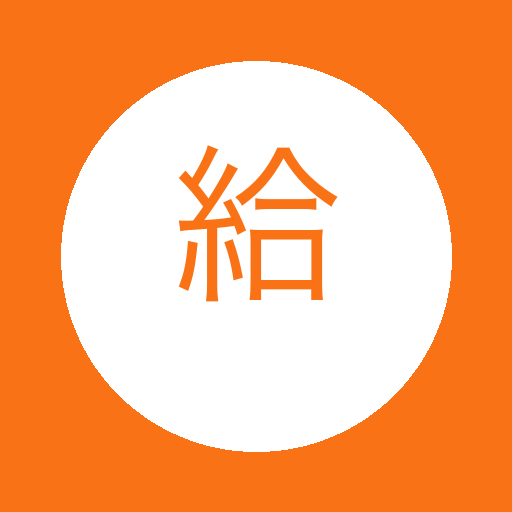
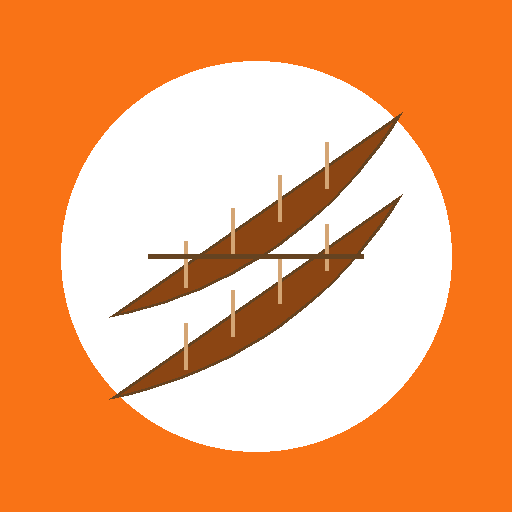
feat: PWAアイコンをパンのイラスト（2本のバゲット）に変更

Changed region(s): [[0.2188, 0.2188, 0.7812, 0.7812]]

diff --git a/scripts/create-pwa-icons.py b/scripts/create-pwa-icons.py
@@ -1,14 +1,16 @@
 #!/usr/bin/env python3
 """
 PWAアイコン生成スクリプト
+パンのイラストアイコンを生成します
 192x192と512x512のアイコンを生成します
 """
 
 from PIL import Image, ImageDraw, ImageFont
 import os
+import math
 
-def create_icon(size, output_path):
-    """指定サイズのアイコンを生成"""
+def create_bread_icon(size, output_path):
+    """パンのイラストアイコンを生成（2本のバゲット）"""
     # 新しい画像を作成（オレンジのグラデーション背景）
     img = Image.new('RGB', (size, size), color='#f97316')
     draw = ImageDraw.Draw(img)
@@ -22,27 +24,109 @@ def create_icon(size, output_path):
         width=max(2, size // 50)
     )
     
-    # テキストを描画（「給」の文字）
-    try:
-        # システムフォントを使用
-        font_size = size // 3
-        font = ImageFont.truetype('/System/Library/Fonts/ヒラギノ角ゴシック W3.ttc', font_size)
-    except:
-        # フォントが見つからない場合はデフォルトフォント
-        font = ImageFont.load_default()
+    # パンのイラストを描画（2本のバゲット）
+    center_x = size // 2
+    center_y = size // 2
     
-    text = "給"
-    # テキストの位置を中央に配置
-    bbox = draw.textbbox((0, 0), text, font=font)
-    text_width = bbox[2] - bbox[0]
-    text_height = bbox[3] - bbox[1]
-    position = ((size - text_width) // 2, (size - text_height) // 2 - text_height // 4)
+    # バゲットのサイズ
+    baguette_length = size * 0.7
+    baguette_width = size * 0.15
     
-    draw.text(position, text, fill='#f97316', font=font)
+    # 2本のバゲットを斜めに配置
+    angle = -35  # 斜めの角度（度）
+    angle_rad = math.radians(angle)
+    
+    # 1本目のバゲット（上）
+    offset_y1 = -size * 0.08
+    # 2本目のバゲット（下、少し重なる）
+    offset_y2 = size * 0.08
+    
+    def draw_baguette(x, y, angle, length, width):
+        """バゲットを描画"""
+        # バゲットの本体（楕円形）
+        cos_a = math.cos(angle)
+        sin_a = math.sin(angle)
+        
+        # バゲットの中心点
+        points = []
+        num_points = 20
+        
+        for i in range(num_points + 1):
+            t = (i / num_points - 0.5) * 2  # -1 to 1
+            # 楕円のパラメータ
+            local_x = t * length / 2
+            local_y = (1 - t*t) * width / 2
+            
+            # 回転
+            rot_x = local_x * cos_a - local_y * sin_a
+            rot_y = local_x * sin_a + local_y * cos_a
+            
+            points.append((x + rot_x, y + rot_y))
+        
+        # バゲットの本体を描画（暖かい茶色）
+        bread_color = '#8B4513'  # サドルブラウン（パンの色）
+        if len(points) > 2:
+            draw.polygon(points, fill=bread_color, outline='#654321', width=max(1, size // 150))
+        
+        # バゲットのスコア（切り込み）を描画
+        num_scores = 4
+        score_color = '#D4A574'  # 薄い茶色（切り込みの色）
+        score_width = max(1, size // 120)
+        
+        for i in range(num_scores):
+            t = (i + 1) / (num_scores + 1) - 0.5  # -0.5 to 0.5
+            local_x = t * length * 0.8
+            local_y = 0
+            
+            # 回転
+            rot_x = local_x * cos_a - local_y * sin_a
+            rot_y = local_x * sin_a + local_y * cos_a
+            
+            score_x = x + rot_x
+            score_y = y + rot_y
+            
+            # スコアの線（斜め）
+            score_length = width * 0.6
+            score_angle = angle + 90
+            score_angle_rad = math.radians(score_angle)
+            
+            score_dx = math.cos(score_angle_rad) * score_length / 2
+            score_dy = math.sin(score_angle_rad) * score_length / 2
+            
+            draw.line(
+                [(score_x - score_dx, score_y - score_dy), 
+                 (score_x + score_dx, score_y + score_dy)],
+                fill=score_color,
+                width=score_width
+            )
+    
+    # 1本目のバゲットを描画
+    draw_baguette(center_x, center_y + offset_y1, angle_rad, baguette_length, baguette_width)
+    
+    # 2本目のバゲットを描画（少し重なる）
+    draw_baguette(center_x, center_y + offset_y2, angle_rad, baguette_length, baguette_width)
+    
+    # 2本の間の影を描画
+    shadow_color = '#654321'
+    shadow_width = max(1, size // 100)
+    shadow_start_x = center_x - baguette_length * 0.3
+    shadow_start_y = center_y
+    shadow_end_x = center_x + baguette_length * 0.3
+    shadow_end_y = center_y
+    
+    draw.line(
+        [(shadow_start_x, shadow_start_y), (shadow_end_x, shadow_end_y)],
+        fill=shadow_color,
+        width=shadow_width
+    )
     
     # 画像を保存
     img.save(output_path, 'PNG')
     print(f'✓ {output_path} を作成しました ({size}x{size})')
+
+def create_icon(size, output_path):
+    """指定サイズのアイコンを生成（パンイラスト版）"""
+    create_bread_icon(size, output_path)
 
 def main():
     """メイン処理"""

diff --git a/PWA本番デプロイ完了.md b/PWA本番デプロイ完了.md
@@ -1,0 +1,139 @@
+# PWA本番デプロイ完了
+
+## ✅ 完了した作業
+
+### 1. PWA機能の実装
+- ✅ PWAインストールプロンプトコンポーネントの作成
+- ✅ PWAアイコン（192x192、512x512）の生成
+- ✅ manifest.jsonの改善（ショートカット、詳細情報追加）
+- ✅ layout.tsxへの統合
+- ✅ iOS Safari対応（Apple用メタタグ追加）
+
+### 2. 本番環境への適用
+- ✅ 変更をGitHubにコミット
+- ✅ mainブランチにプッシュ完了
+
+## 🚀 デプロイ状況
+
+### 自動デプロイ
+GitHubにプッシュしたため、以下のいずれかで自動デプロイが開始されます：
+
+1. **Netlify**: 自動デプロイが開始されます
+   - デプロイ状況: https://app.netlify.com/sites/[サイト名]/deploys
+   - 通常、数分で完了します
+
+2. **Vercel**: 自動デプロイが開始されます
+   - デプロイ状況: https://vercel.com/dashboard
+   - 通常、数分で完了します
+
+### デプロイ確認方法
+
+#### Netlifyの場合
+1. Netlifyダッシュボードにアクセス
+2. サイトのデプロイ履歴を確認
+3. 最新のデプロイが「Published」になるまで待つ
+
+#### Vercelの場合
+1. Vercelダッシュボードにアクセス
+2. プロジェクトのデプロイ履歴を確認
+3. 最新のデプロイが「Ready」になるまで待つ
+
+## 📱 本番環境でのPWA動作確認
+
+### 1. デプロイ完了後の確認
+デプロイが完了したら、以下のURLで確認：
+- 本番URL: https://kyushoku.site（または設定されているドメイン）
+
+### 2. PWA機能の確認項目
+
+#### Chrome/Edge（デスクトップ）
+1. サイトにアクセス
+2. アドレスバーにインストールアイコンが表示される
+3. クリックして「インストール」を選択
+4. アプリがインストールされる
+
+#### Chrome（Android）
+1. モバイルでサイトにアクセス
+2. 自動的にインストールプロンプトが表示される
+3. 「インストール」ボタンをタップ
+4. ホーム画面に追加される
+
+#### Safari（iOS）
+1. Safariでサイトにアクセス
+2. 共有ボタン（□↑）をタップ
+3. 「ホーム画面に追加」を選択
+4. ホーム画面にアイコンが追加される
+
+### 3. Lighthouseでの確認
+1. Chrome DevToolsを開く（F12）
+2. Lighthouseタブを開く
+3. 「PWA」カテゴリを選択
+4. 「Analyze page load」をクリック
+5. PWAスコアが100点になることを確認
+
+### 4. Service Workerの確認
+1. Chrome DevTools → Applicationタブ
+2. Service Workersセクションを確認
+3. Service Workerが「activated and is running」になっていることを確認
+
+### 5. Manifestの確認
+1. Chrome DevTools → Applicationタブ
+2. Manifestセクションを確認
+3. エラーがないことを確認
+4. アイコンが正しく読み込まれていることを確認
+
+## 🔧 トラブルシューティング
+
+### デプロイが失敗する場合
+
+#### ビルドエラーの確認
+1. Netlify/Vercelのデプロイログを確認
+2. エラーメッセージを確認
+3. 必要に応じてローカルでビルドを確認：
+   ```bash
+   npm run build
+   ```
+
+#### Service Workerのエラー
+- `public/sw.js`が正しく生成されているか確認
+- ビルド時に自動生成されるため、手動で編集しないこと
+
+### PWA機能が動作しない場合
+
+#### HTTPSの確認
+- PWAはHTTPS環境でのみ動作します
+- 本番環境がHTTPSになっているか確認
+
+#### manifest.jsonの確認
+- Chrome DevTools → Application → Manifest
+- エラーがないか確認
+- アイコンのパスが正しいか確認
+
+#### Service Workerの確認
+- Chrome DevTools → Application → Service Workers
+- Service Workerが登録されているか確認
+- 登録されていない場合は、キャッシュをクリアして再読み込み
+
+## 📊 デプロイ後の確認チェックリスト
+
+- [ ] デプロイが正常に完了している
+- [ ] サイトが正常に表示される
+- [ ] manifest.jsonが正しく読み込まれている
+- [ ] Service Workerが登録されている
+- [ ] アイコンが正しく表示される
+- [ ] インストールプロンプトが表示される（条件を満たす場合）
+- [ ] LighthouseのPWAスコアが100点
+- [ ] オフラインで動作する（一度アクセス後）
+
+## 🎉 完了
+
+PWA機能が本番環境に適用されました！
+
+デプロイが完了したら、モバイルデバイスで実際にインストールを試してみてください。
+
+## 📝 次のステップ（オプション）
+
+1. **プッシュ通知の追加**: 新機能や更新情報を通知
+2. **オフライン機能の強化**: より多くのデータをキャッシュ
+3. **バックグラウンド同期**: データの自動更新
+
